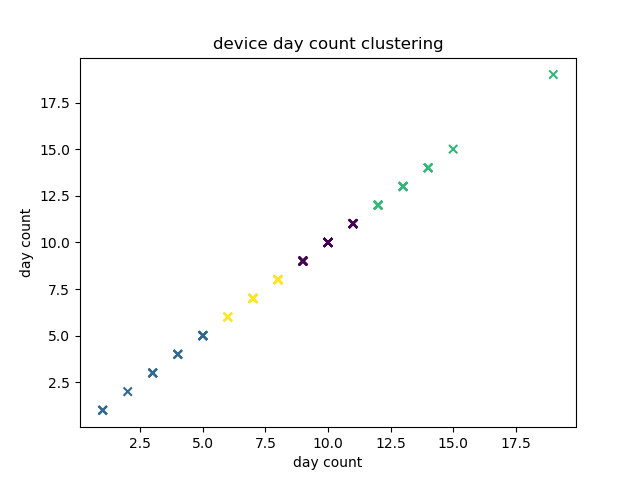
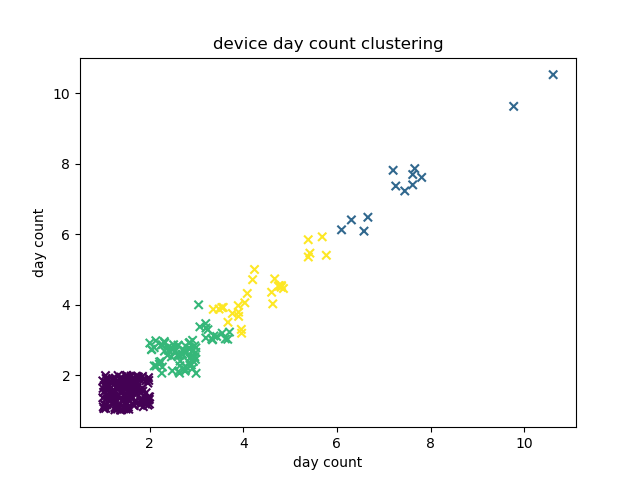
一维图像二维化展示

diff --git a/com.ten.aditum/personas/DeviceCountClusteringModel.py b/com.ten.aditum/personas/DeviceCountClusteringModel.py
@@ -1,6 +1,7 @@
 """
 基于设备按天访问热度[DAY访问热度]的一维聚类分析
 """
+import random
 
 from sklearn.cluster import KMeans
 import matplotlib.pyplot as plt
@@ -32,7 +33,7 @@ def initEntitySet(deviceCountList):
     for deviceCount in deviceCountList:
         # 当天访问量
         accessCount = deviceCount.accessCount
-        countEntity = [accessCount, accessCount]
+        countEntity = [accessCount + random.random(), accessCount + random.random()]
         countEntitySet.append(countEntity)
     return countEntitySet
 

diff --git a/com.ten.aditum/personas/BackRemoteApi.py b/com.ten.aditum/personas/BackRemoteApi.py
@@ -136,6 +136,7 @@ def getForYesterdayDeviceCount():
     :return: deviceCountList
     """
     yesterday = TimeUtil.getYesterdayDate()
+    # test数据 yesterday = "2019-05-28"
     request = {"logDate": yesterday}
     deviceCountJson = requests.get(accessDeviceUrl + "/countByDay", params=request, headers=headers).json().get("data")
     if deviceCountJson == "":
